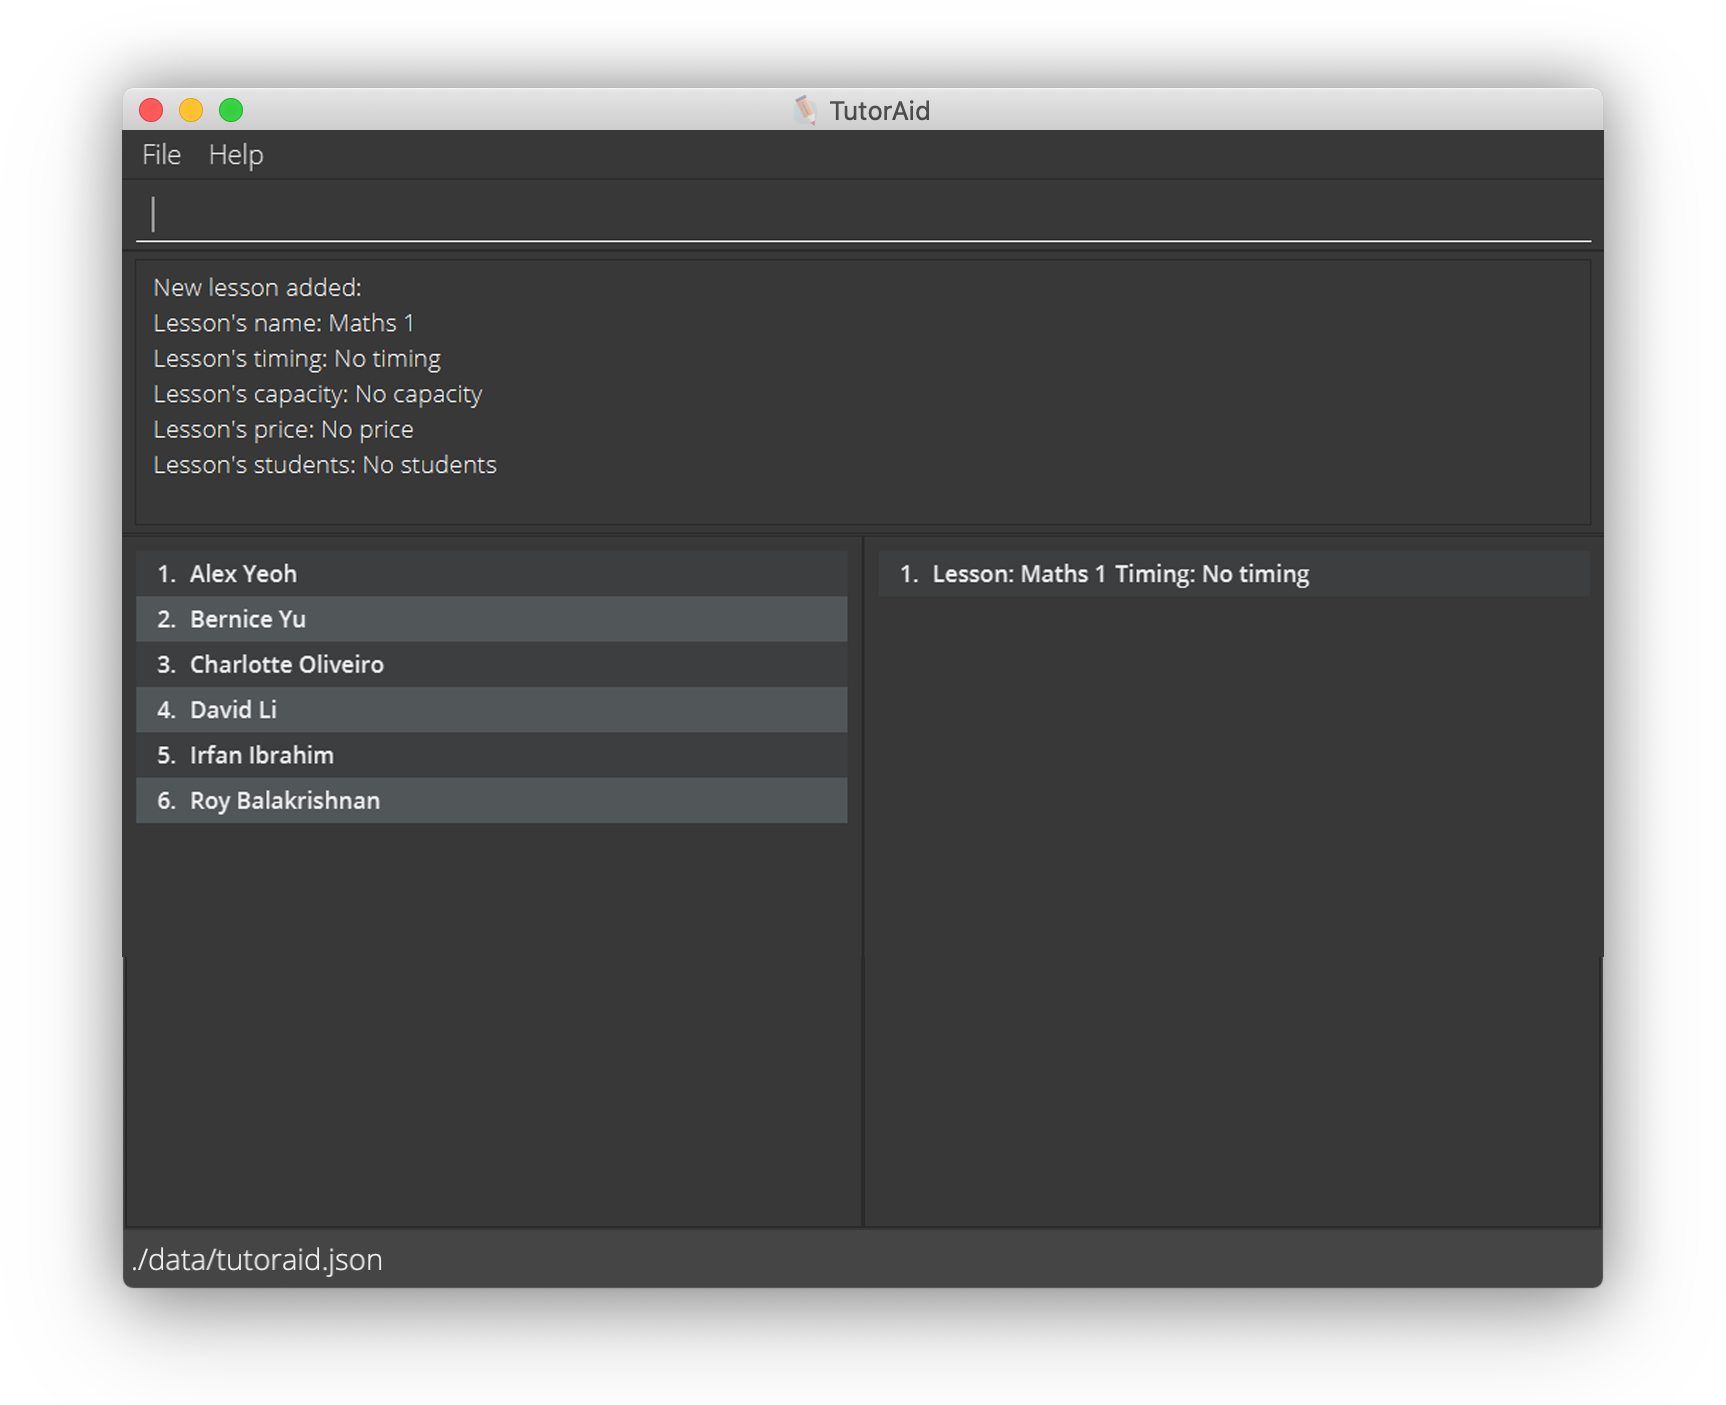
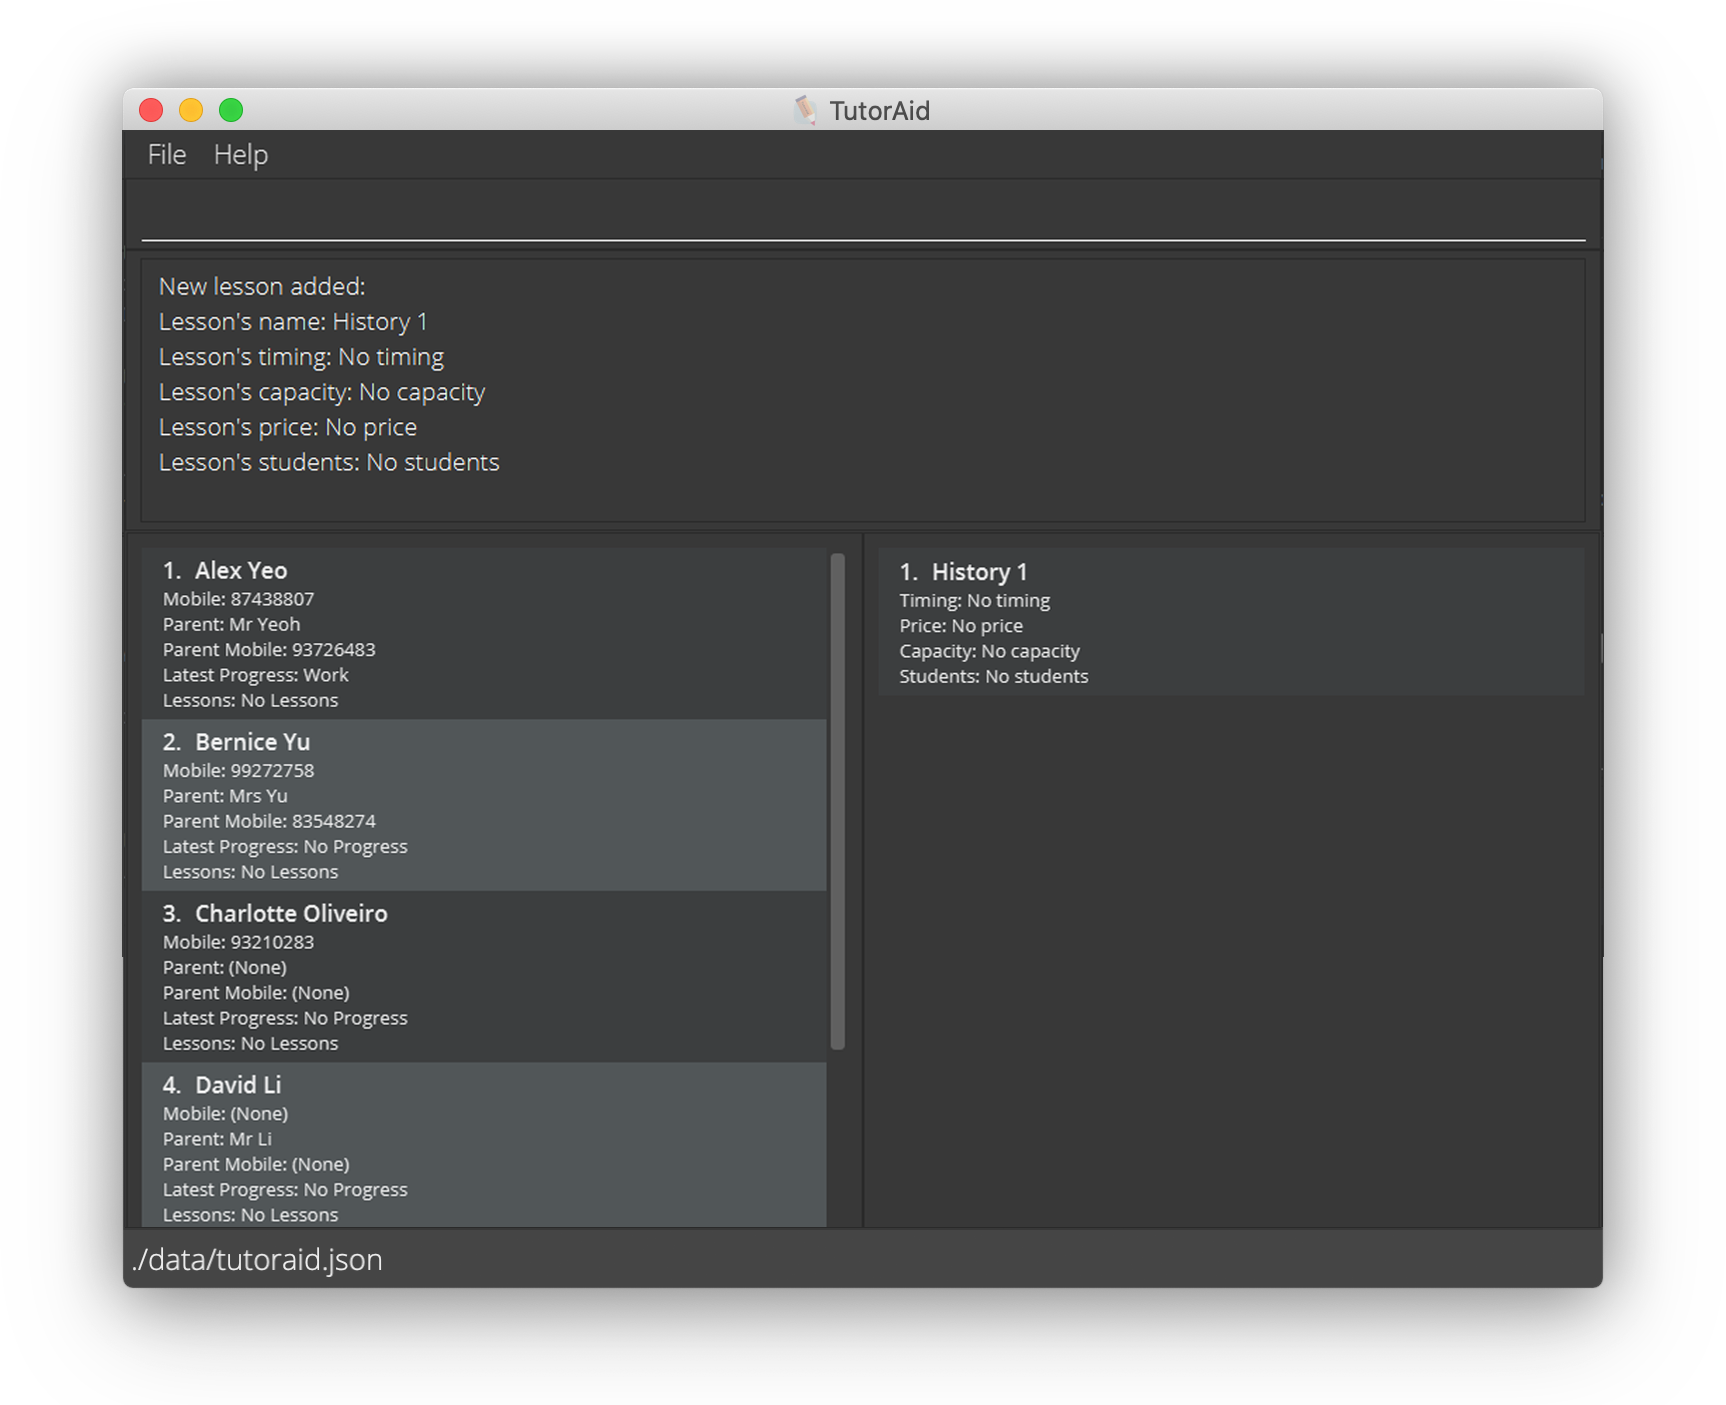
Change Maths 1 to History 1 for add lesson tutorial

diff --git a/docs/UserGuide.md b/docs/UserGuide.md
@@ -176,17 +176,17 @@ shown in the Student Panel and that you offer the lesson(s) shown in the Lesson 
 
 ### Step 2: Adding a lesson
 {:.no_toc}
-Now that you've added your first student (and perhaps a few others too), let's add some Lessons to TutorAid. In this tutorial, we will be adding a lesson named Maths 1 into TutorAid by performing the steps below:
+Now that you've added your first student (and perhaps a few others too), let's add some Lessons to TutorAid. In this tutorial, we will be adding a lesson named History 1 into TutorAid by performing the steps below:
 
-1. Type `add -l n/Maths 1` into the command box and press enter.
+1. Type `add -l n/History 1` into the command box and press enter.
 
 ![](images/tutorialAddLesson1.png)
 
-2. Observe how Maths 1 appears in the Lesson Panel.
-3. We've added the lesson successfully, but we can continue by adding more details, such as its timing (10AM - 11AM on Mondays), price ($125.90) and capacity (10). Assuming that Maths 1 is the only lesson in your Lesson Panel, type the command `edit -l 1 t/10AM - 11AM on Mondays c/10`. Press Enter on your keyboard.
+2. Observe how History 1 appears in the Lesson Panel.
+3. We've added the lesson successfully, but we can continue by adding more details, such as its timing (10AM - 11AM on Mondays), price ($125.90) and capacity (10). Assuming that History 1 is the only lesson in your Lesson Panel, type the command `edit -l 1 t/10AM - 11AM on Mondays c/10`. Press Enter on your keyboard.
 4. Observe how the capacity and timing now show what you have requested.
-> :bulb: If you know what details you wish to add from the beginning, you can type `add -l n/Maths 1 c/10 t/10 AM - 11AM on Mondays p/125.90` to enter these details in a single command.
-5. That's it, you've added your first lesson. If you need more information, you can check out the detailed documentation of the [add lesson]() and [edit lesson]() commands.
+> :bulb: If you know what details you wish to add from the beginning, you can type `add -l n/History 1 c/10 t/10 AM - 11AM on Mondays p/125.90` to enter these details in a single command.
+5. That's it, you've added your first lesson. If you need more information, you can check out the detailed documentation of the [add lesson](#adding-a-lesson-add--l) and [edit lesson](#editing-a-lesson-edit--l) commands.
 
 ### Step 4: Adding a progress note for a student
 {:.no_toc}
